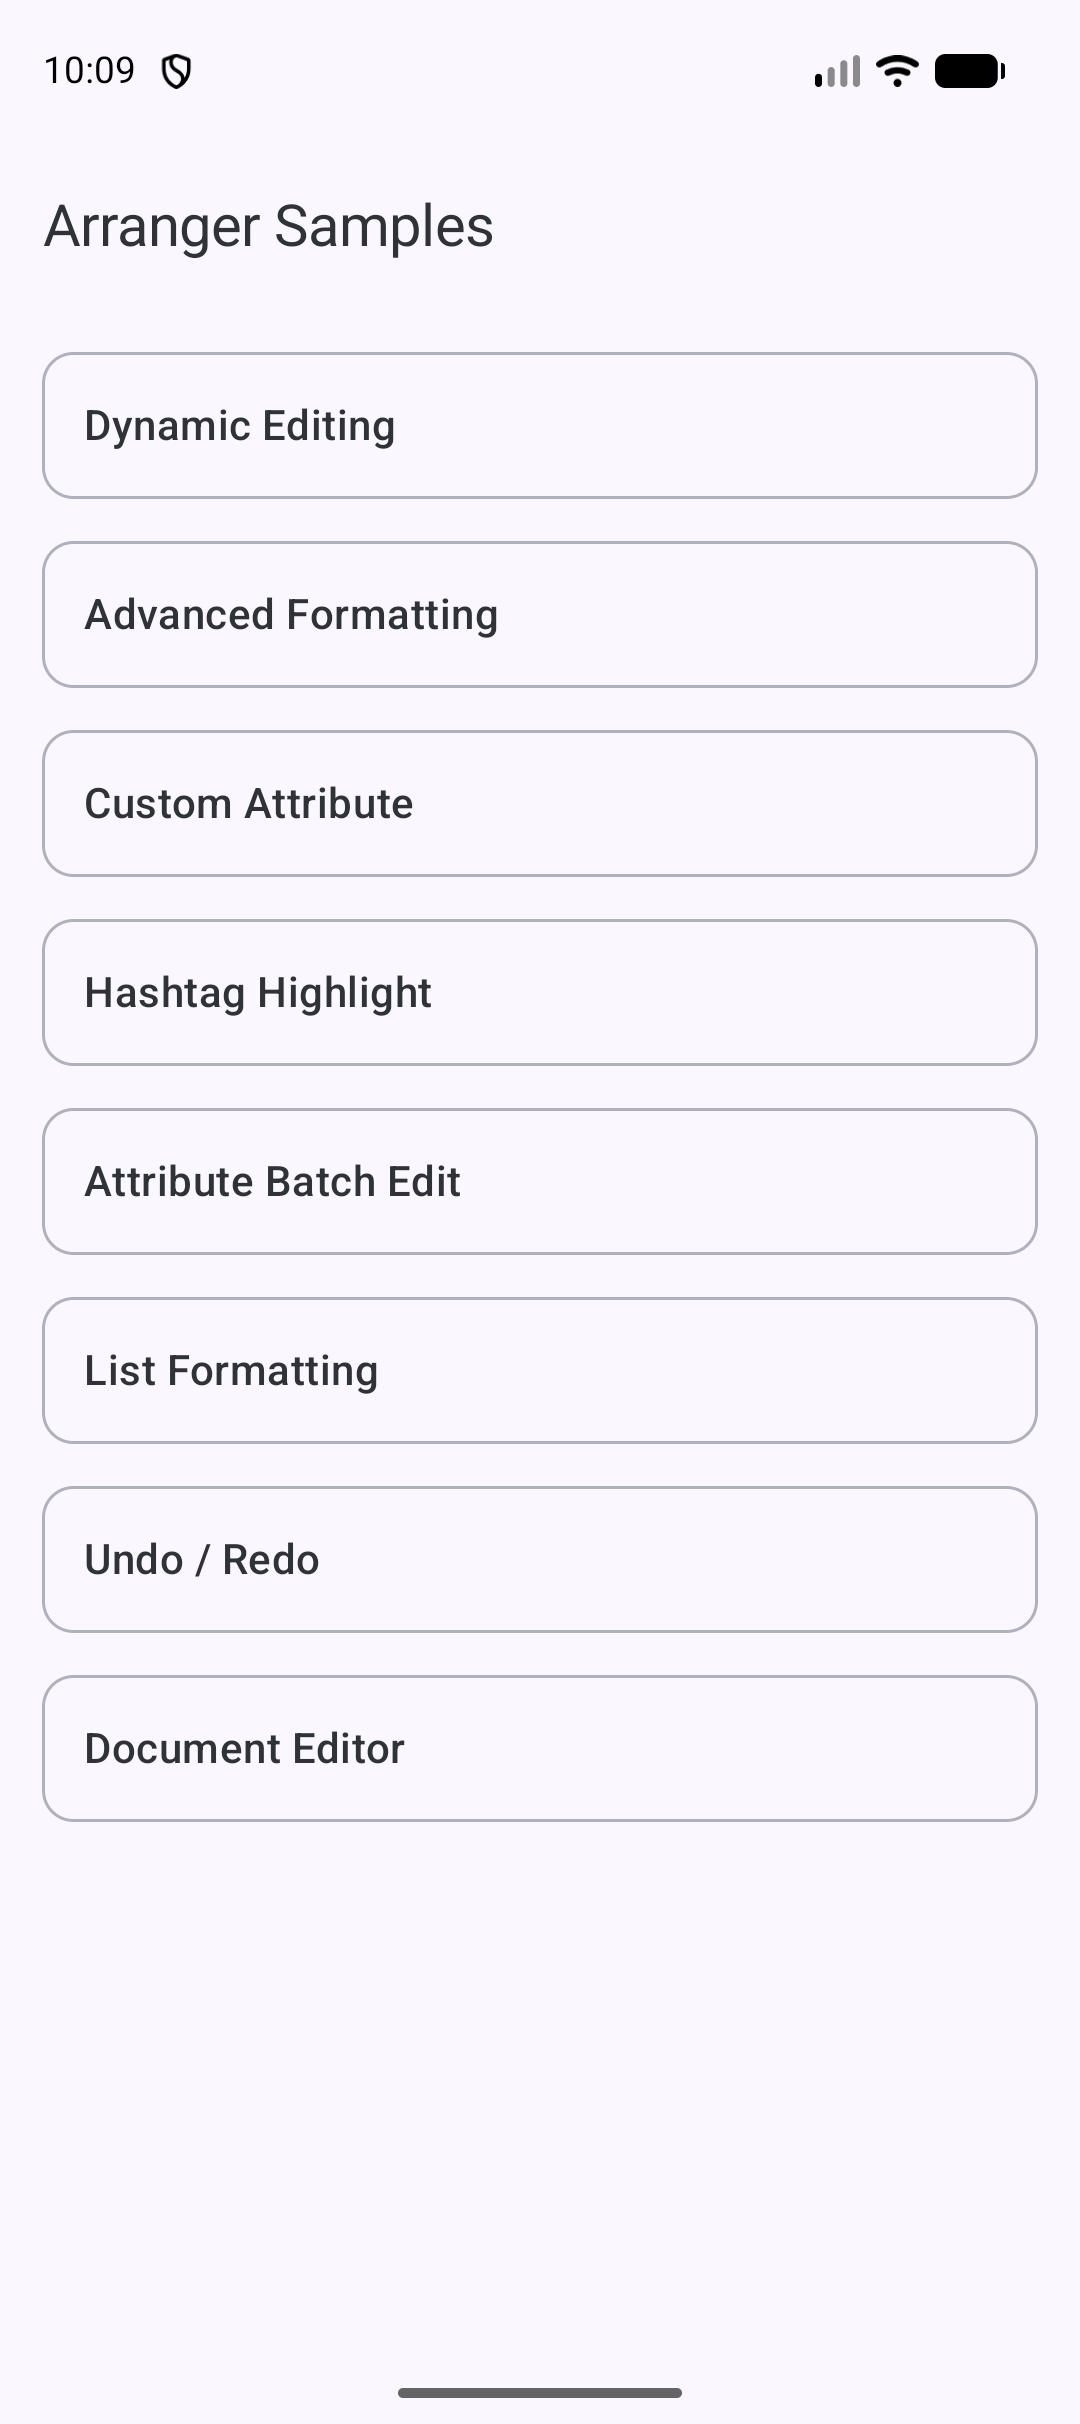
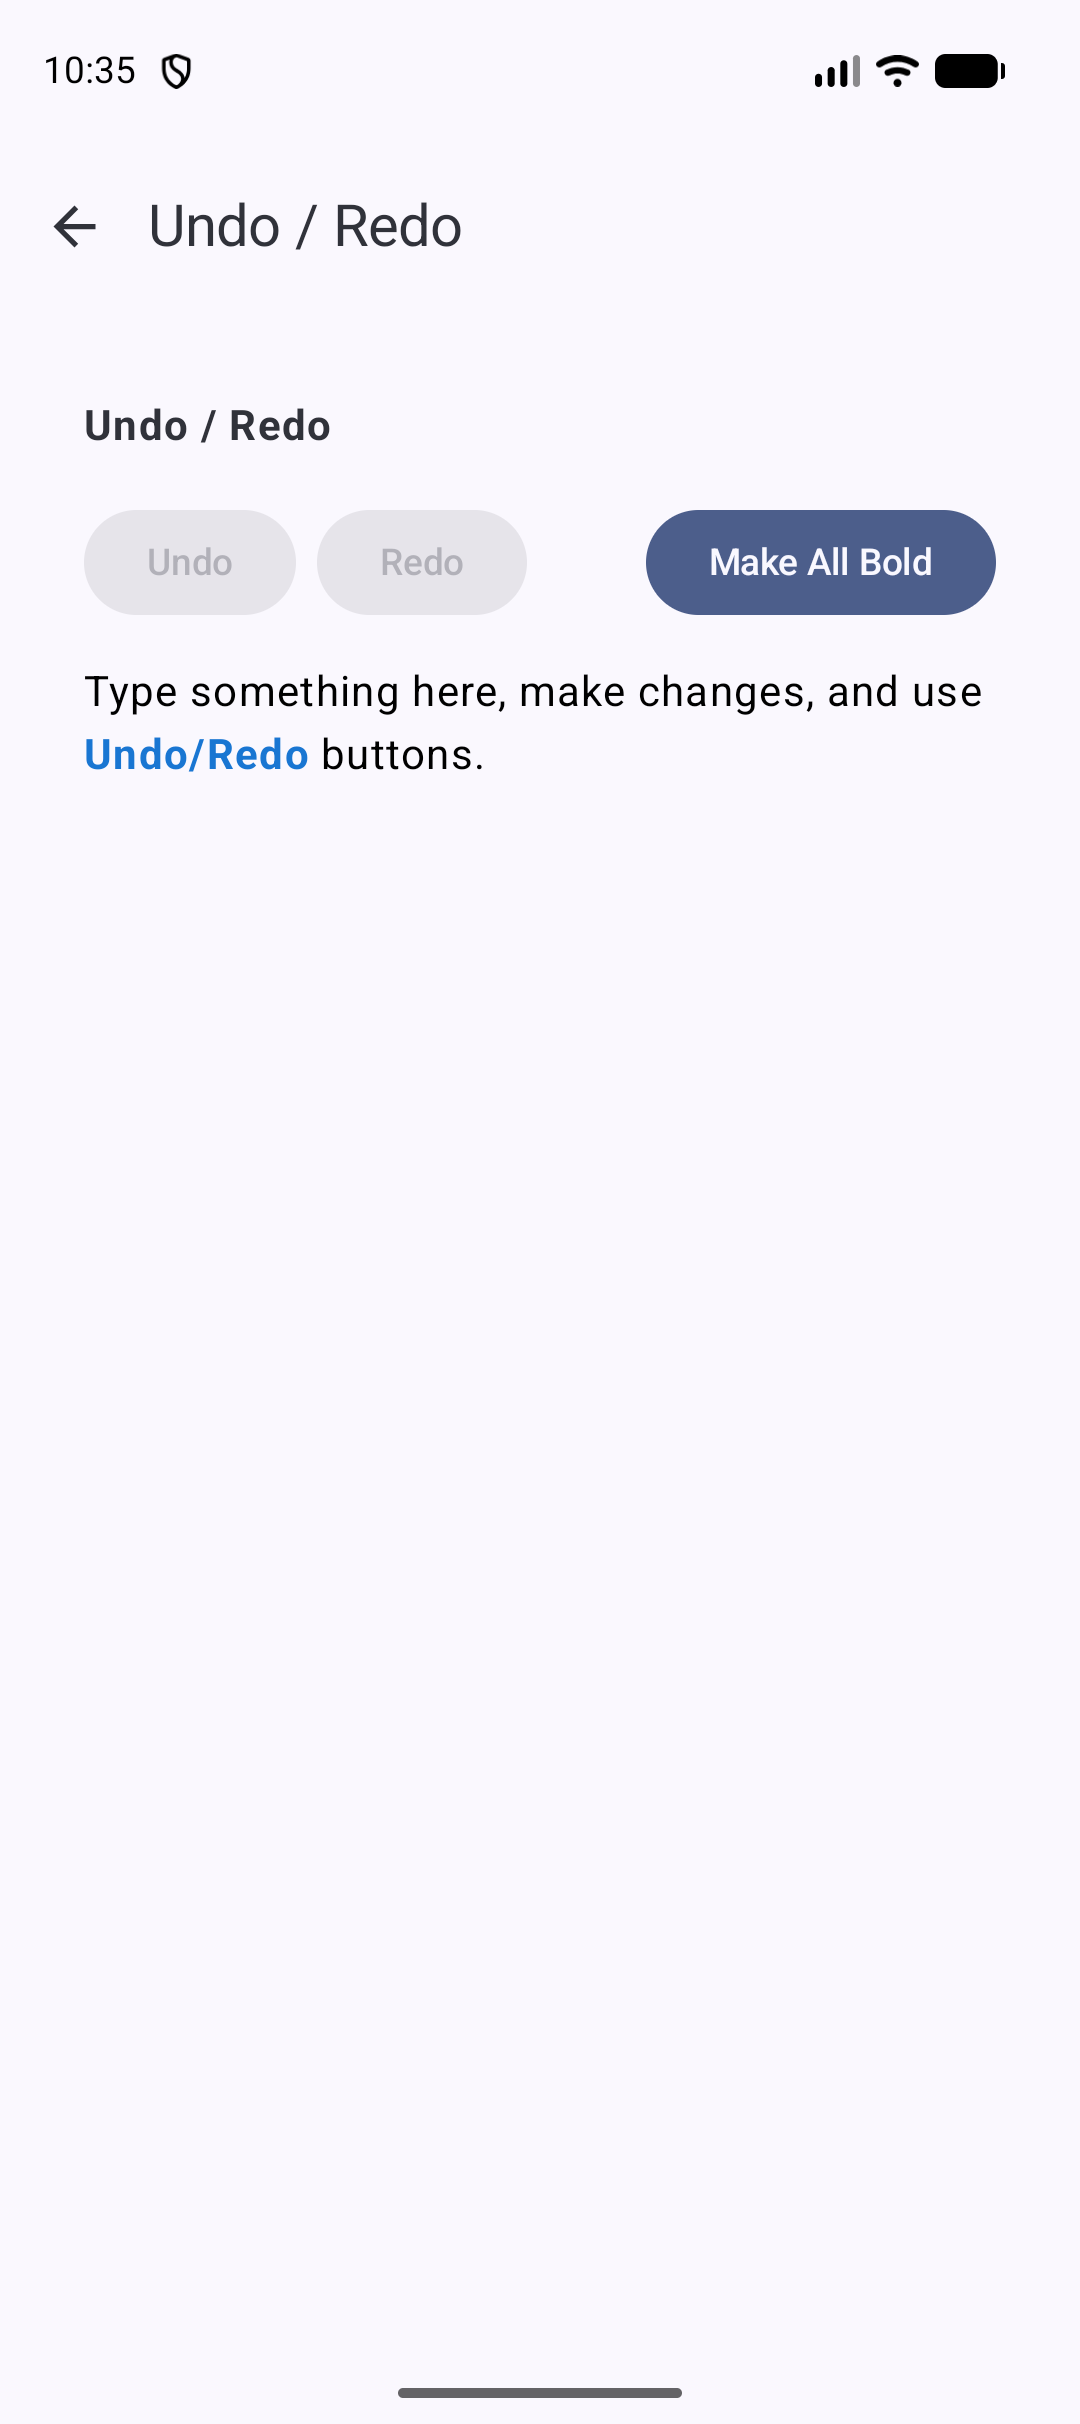
style(sample): add rich text attributes to initial text in UndoRedoSample

diff --git a/sample-app/src/main/java/dev/mkeeda/arranger/sampleApp/UndoRedoSample.kt b/sample-app/src/main/java/dev/mkeeda/arranger/sampleApp/UndoRedoSample.kt
@@ -1,5 +1,6 @@
 package dev.mkeeda.arranger.sampleApp
 
+import androidx.compose.foundation.layout.Arrangement
 import androidx.compose.foundation.layout.Column
 import androidx.compose.foundation.layout.Row
 import androidx.compose.foundation.layout.Spacer
@@ -12,48 +13,69 @@ import androidx.compose.material3.Text
 import androidx.compose.runtime.Composable
 import androidx.compose.runtime.remember
 import androidx.compose.ui.Modifier
+import androidx.compose.ui.graphics.Color
 import androidx.compose.ui.text.font.FontWeight
 import androidx.compose.ui.unit.dp
 import dev.mkeeda.arranger.richtext.RichString
+import dev.mkeeda.arranger.richtext.bold
 import dev.mkeeda.arranger.richtext.editor.RichTextEditor
 import dev.mkeeda.arranger.richtext.editor.RichTextState
+import dev.mkeeda.arranger.richtext.editor.editAttributes
+import dev.mkeeda.arranger.richtext.editor.textColor
+import dev.mkeeda.arranger.richtext.rangeOf
 
 @Composable
 fun UndoRedoSample(modifier: Modifier = Modifier) {
-    val initialText = "Type something here and use Undo/Redo buttons."
+    val initialText = "Type something here, make changes, and use Undo/Redo buttons."
 
-    // 1. Initialize state
     val state =
         remember {
-            RichTextState(initialText = RichString(text = initialText))
+            RichTextState(
+                initialText =
+                    RichString(text = initialText).edit {
+                        val range = initialText.rangeOf("Undo/Redo")
+                        editAttributes(range = range) {
+                            bold()
+                            textColor(Color(0xFF1976D2)) // Blue
+                        }
+                    },
+            )
         }
 
     Column(modifier = modifier.padding(16.dp)) {
         Text("Undo / Redo", fontWeight = FontWeight.Bold)
         Spacer(modifier = Modifier.height(16.dp))
 
-        // 2. Add Undo and Redo buttons
-        Row(modifier = Modifier.fillMaxWidth()) {
+        Row(
+            modifier = Modifier.fillMaxWidth(),
+            horizontalArrangement = Arrangement.spacedBy(8.dp),
+        ) {
             Button(
                 onClick = { state.undoState.undo() },
                 enabled = state.undoState.canUndo,
-                modifier = Modifier.weight(1f),
             ) {
                 Text("Undo")
             }
-            Spacer(modifier = Modifier.padding(horizontal = 8.dp))
             Button(
                 onClick = { state.undoState.redo() },
                 enabled = state.undoState.canRedo,
-                modifier = Modifier.weight(1f),
             ) {
                 Text("Redo")
+            }
+            Spacer(modifier = Modifier.weight(1f))
+            Button(
+                onClick = {
+                    state.edit {
+                        editAttributes(range = 0 until textLength) { bold() }
+                    }
+                },
+            ) {
+                Text("Make All Bold")
             }
         }
 
         Spacer(modifier = Modifier.height(16.dp))
 
-        // 3. Render natively via Compose 1.7
         RichTextEditor(
             state = state,
             modifier = Modifier.fillMaxWidth(),

diff --git a/README.md b/README.md
@@ -553,8 +553,19 @@ The engine correctly manages complex operations like batch attribute application
 ```kotlin
 @Composable
 fun UndoRedoSample(modifier: Modifier = Modifier) {
-    val initialText = "Type something, make changes, and use Undo/Redo to see the history."
-    val state = remember { RichTextState(initialText = RichString(initialText)) }
+    val initialText = "Type something here, make changes, and use Undo/Redo buttons."
+    val state =
+        remember {
+            RichTextState(
+                initialText = RichString(text = initialText).edit {
+                    val range = initialText.rangeOf("Undo/Redo")
+                    editAttributes(range = range) {
+                        bold()
+                        textColor(Color(0xFF1976D2)) // Blue
+                    }
+                }
+            )
+        }
 
     Column(modifier = modifier.padding(16.dp)) {
         Row(
